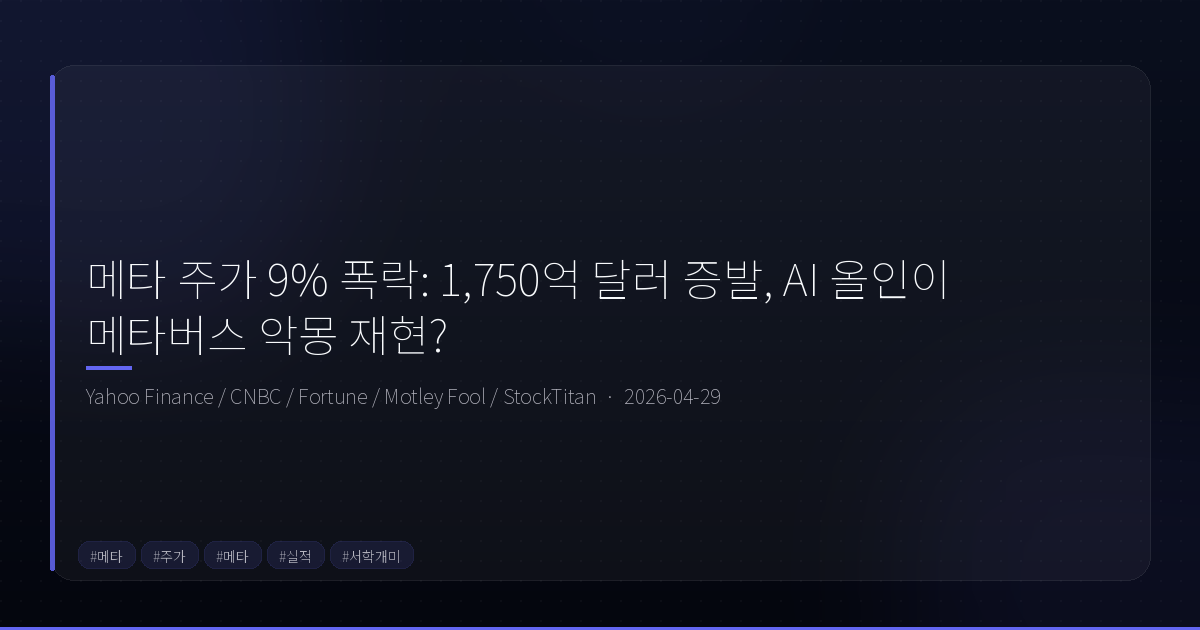
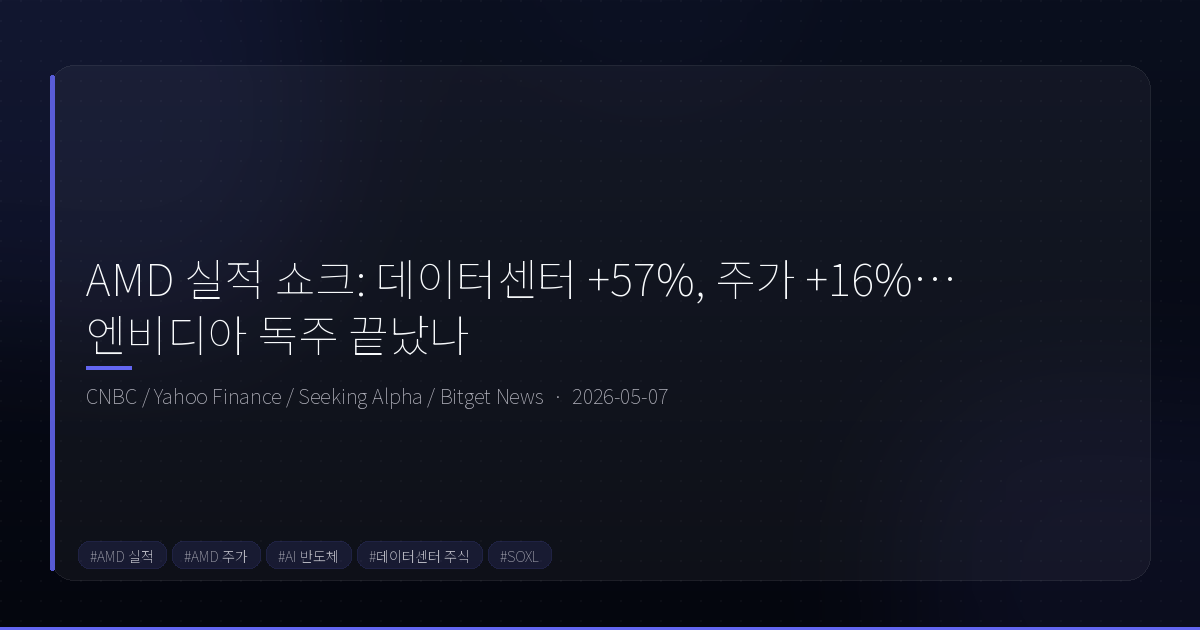
Post: AMD 실적 쇼크 데이터센터 +57%, 주가 +16%
https://claude.ai/code/session_014UEibd24C9LV4NevU7xshu

Changed region(s): [[0.0617, 0.3921, 0.8017, 0.573], [0.0617, 0.6032, 0.555, 0.6635], [0.0617, 0.8444, 0.4625, 0.9048]]

diff --git a/_posts/2026-05-07-amd-earnings-q1-2026.md b/_posts/2026-05-07-amd-earnings-q1-2026.md
@@ -1,0 +1,106 @@
+---
+title: "AMD 실적 쇼크: 데이터센터 +57%, 주가 +16%… 엔비디아 독주 끝났나"
+date: "2026-05-07"
+description: "AMD가 2026년 1분기 매출 102.5억 달러(+38%)를 기록하며 예상을 크게 웃돌았습니다. 데이터센터 +57% 급성장과 삼성 HBM 수혜, SOXL/TQQQ 서학개미 투자 전략까지 핵심을 정리합니다."
+tags: ["AMD실적", "AMD주가", "AI반도체", "데이터센터주식", "SOXL", "TQQQ", "서학개미", "삼성전자HBM"]
+image: "https://raw.githubusercontent.com/jeonghun-project/economy-insights/main/assets/images/header.png"
+---
+
+## 3줄 요약
+
+- **실적**: AMD Q1 2026 매출 102.5억 달러(+38% YoY) — 예상치를 3.7% 상회, 주가 당일 +16% 급등
+- **구조**: 데이터센터 매출 +57%가 성장 엔진 — 메타·MS·구글·아마존 4대 하이퍼스케일러 모두 AMD 채택
+- **한국**: 삼성전자·SK하이닉스 HBM 공급 수혜 직결, SOXL·TQQQ 보유 서학개미에게 직접 영향
+
+---
+
+## 하루 만에 주가 +16%, 시장이 AMD에 반응한 이유
+
+2026년 5월 5일(현지 시각), AMD가 2026년 1분기 실적을 발표했습니다. 숫자들이 예상을 넘어섰고, 시장은 즉각 반응했습니다. 주가는 발표 다음 날 +16% 급등했고, 모건스탠리는 같은 날 목표주가를 상향 조정했습니다.
+
+핵심 수치부터 짚겠습니다.
+
+![AMD Q1 2026 핵심 실적 지표](https://raw.githubusercontent.com/jeonghun-project/economy-insights/main/assets/images/section_amd_stats.png)
+
+- **매출**: 102.5억 달러 (예상 98.9억 달러 → +3.7% 초과)
+- **YoY 성장률**: +38%
+- **Non-GAAP EPS**: $1.37 (예상 $1.28 → +7% 초과)
+- **데이터센터 매출**: 58억 달러 (+57% YoY)
+- **Q2 2026 가이던스**: 109~115억 달러 중간값 112억 달러 (컨센서스 105.2억 달러 상회)
+
+Q2 가이던스가 특히 중요합니다. 실적이 좋아도 가이던스가 실망스러우면 주가는 하락합니다. AMD는 Q1 실적과 Q2 가이던스 모두 예상을 상회함으로써 "이번 분기만 좋은 게 아니다"라는 메시지를 시장에 전달했습니다.
+
+---
+
+## 엔비디아만 있는 줄 알았던 AI 가속기 시장, 무엇이 달라졌나
+
+AMD의 성장은 갑자기 나타난 게 아닙니다. 2년에 걸친 AI 가속기 시장 구조 변화의 결과입니다.
+
+엔비디아는 현재 AI 가속기 시장에서 약 80%의 점유율을 차지하고 있습니다. H100, H200, B100 시리즈가 시장을 사실상 독점했던 이유 중 하나는 CUDA 소프트웨어 생태계입니다. 개발자들이 CUDA 위에 AI 모델을 구축해왔기 때문에, 하드웨어를 바꾸려면 소프트웨어 전환 비용이 발생했습니다.
+
+그런데 하이퍼스케일러들의 계산이 달라지기 시작했습니다. 메타(Meta), 마이크로소프트(Microsoft), 구글(Google), 아마존(AWS) — 이 4개 회사가 모두 AMD의 MI300X, MI350 시리즈를 채택했습니다. 하이퍼스케일러 입장에서는 엔비디아에 대한 공급망 의존도를 낮추고, 가격 협상력을 확보하려는 전략적 목적이 있습니다. AMD는 그 빈자리를 메우는 실질적 대안이 됐습니다.
+
+![AI 반도체 패권 경쟁: AMD vs NVIDIA](https://raw.githubusercontent.com/jeonghun-project/economy-insights/main/assets/images/section_amd_vs_nvidia.png)
+
+AMD 경영진은 이번 실적 발표 컨퍼런스 콜에서 서버 CPU 시장이 35% 이상 성장할 것으로 전망했습니다. 또한 AMD의 서버 CPU 점유율이 엔비디아 대비 1:1 수준까지 도달하는 것을 목표로 한다고 밝혔습니다. 2024년만 해도 이 목표를 공개적으로 언급하기 어려웠을 겁니다. 2026년에는 그게 가능해 보이는 데이터가 분기마다 나오고 있습니다.
+
+2분기에는 MI350 시리즈(CDNA 4 아키텍처 기반)가 하이퍼스케일러 파드(pod)에 본격 배포될 예정입니다. 성능당 전력 효율(performance-per-watt)이 MI300X 대비 대폭 개선된 것으로 알려져 있어, 하반기 추가 성장의 카탈리스트로 작용할 가능성이 높습니다.
+
+---
+
+## 한국 투자자에게 주는 시사점: 삼성전자·SK하이닉스·SOXL의 연결고리
+
+AMD 실적이 한국 투자자에게 중요한 이유는 단순히 미국 주식 보유 여부를 떠납니다. 공급망이 한국에 직결됩니다.
+
+AMD MI300X와 MI350 시리즈의 핵심 부품은 HBM(High Bandwidth Memory, 고대역폭 메모리)입니다. 이 HBM의 주요 공급사가 삼성전자와 SK하이닉스입니다. AMD 데이터센터 매출이 분기마다 신기록을 경신한다는 것은, AMD가 더 많은 AI 가속기를 생산한다는 의미이고, 그 과정에서 HBM 수요도 함께 늘어납니다.
+
+![서학개미 AMD 수혜 경로](https://raw.githubusercontent.com/jeonghun-project/economy-insights/main/assets/images/section_kr_investor_flow.png)
+
+구체적인 연결 경로는 다음과 같습니다:
+
+1. **AMD 데이터센터 매출 증가** → AI 가속기 생산량 증가
+2. **AI 가속기 생산 증가** → HBM 수요 증가
+3. **HBM 수요 증가** → 삼성전자·SK하이닉스 수익성 개선
+4. **삼성·하이닉스 실적 개선** → 코스피 반도체 섹터 상승 모멘텀
+
+물론 이 연결고리는 선형적으로만 작동하지는 않습니다. 삼성전자는 현재 HBM 품질 이슈로 엔비디아 공급에 어려움을 겪고 있습니다. AMD향 공급에서 그 공백을 얼마나 채울 수 있는지가 삼성전자 HBM 사업부 실적의 핵심 변수입니다.
+
+**서학개미 포지션별 영향:**
+
+- **SOXL(반도체 3배 레버리지 ETF)**: AMD +16% 급등은 SOXL에 그 이상으로 반영됩니다. SOXL은 필라델피아 반도체 지수(SOX)의 3배 수익을 추구하는 ETF로, AMD는 SOX 지수의 주요 구성 종목입니다. AMD 하나의 급등이 SOX 전체를 끌어올리면, SOXL 수익률은 배수로 증폭됩니다.
+- **TQQQ(나스닥 3배 레버리지 ETF)**: AMD는 나스닥 100(QQQ) 구성 종목이기도 합니다. 반도체 섹터 전반의 상승과 함께 TQQQ에도 긍정적 영향이 있습니다. 다만 SOXL에 비해 반도체 비중은 낮습니다.
+- **AMD 직접 보유자**: 실적 발표 후 추격 매수 시 단기 변동성이 크게 작용할 수 있습니다. 서학개미의 경우 환율 영향도 고려해야 합니다.
+
+5월 7일 기준 애널리스트 34명의 평균 목표주가는 $263입니다. 상승 여력이 있는 것으로 시장이 판단하고 있지만, 이미 상당 부분 주가에 반영된 만큼 신규 진입은 분할 매수 전략이 적절합니다.
+
+---
+
+## FOMC 금리동결 — AMD 같은 성장주에 어떤 의미인가
+
+4월 28~29일 FOMC에서 연준은 기준금리를 3.5~3.75%로 세 번째 연속 동결했습니다. 이 결정이 AMD 실적과 맞물려 시장에 긍정적으로 작용했습니다.
+
+금리가 높으면 미래 이익의 현재 가치가 낮아지기 때문에 성장주(Growth Stock) 밸류에이션이 압박을 받습니다. 반대로 금리동결 또는 인하 기대가 형성되면 성장주에 유리한 환경이 만들어집니다. AMD처럼 매출과 이익이 빠르게 성장하는 기업일수록 이 효과가 두드러집니다.
+
+다만 현재 선물 시장에서는 6월 FOMC에서도 금리 변경 가능성을 10% 미만으로 보고 있습니다. 에너지 가격 상승과 중동 불안정성이 인플레이션을 자극하고 있어, 연준이 쉽게 금리를 내리기 어려운 상황입니다. 금리동결이 성장주에 '최악은 아닌 환경'을 만들어주고 있다는 정도로 이해하면 됩니다.
+
+---
+
+## 필자의 판단: AI 반도체 2라운드, AMD가 구조적 수혜자
+
+지금까지의 데이터를 종합하면 필자의 판단은 다음과 같습니다.
+
+**Bullish — 비중 유지 또는 분할 확대 검토.**
+
+그 근거는 세 가지입니다:
+
+1. **분기 실적이 구조적 추세를 반영하고 있습니다.** AMD의 데이터센터 매출은 4분기 연속 신기록을 경신 중입니다. 1~2회 실적 쇼크는 우연일 수 있지만, 4분기 이상의 연속 성장은 추세입니다. AI 가속기 수요는 하이퍼스케일러들의 Capex 계획에 이미 반영되어 있어 단기간에 꺼지기 어렵습니다.
+
+2. **MI350 출하 하반기 카탈리스트가 있습니다.** Q2 가이던스를 112억 달러 수준으로 제시한 상태에서, MI350 본격 출하가 하반기에 예정되어 있습니다. 2026년 하반기에도 실적 모멘텀이 이어질 가능성이 높습니다.
+
+3. **삼성·SK하이닉스 수혜가 구조적입니다.** HBM 수요 증가는 단기 이벤트가 아닙니다. 데이터센터 AI 인프라 확장은 3~5년 단위의 투자 사이클입니다. 국내 투자자에게는 AMD 실적 호조가 반도체 공급망 전체의 긍정 신호로 해석됩니다.
+
+주의할 점은 하나입니다. 주가가 단기간에 +16% 급등했고 이미 상당한 기대가 반영된 상태입니다. 실적이 기대에 못 미치는 분기가 오면 하락 속도도 빠를 수 있습니다. 레버리지 ETF(SOXL, TQQQ) 보유자는 특히 단기 변동성 리스크를 반드시 고려해야 합니다.
+
+---
+
+*본 포스트는 투자 정보 제공 목적으로 작성되었으며, 특정 종목에 대한 매수·매도 권유가 아닙니다. 투자에 대한 최종 판단과 책임은 투자자 본인에게 있습니다.*